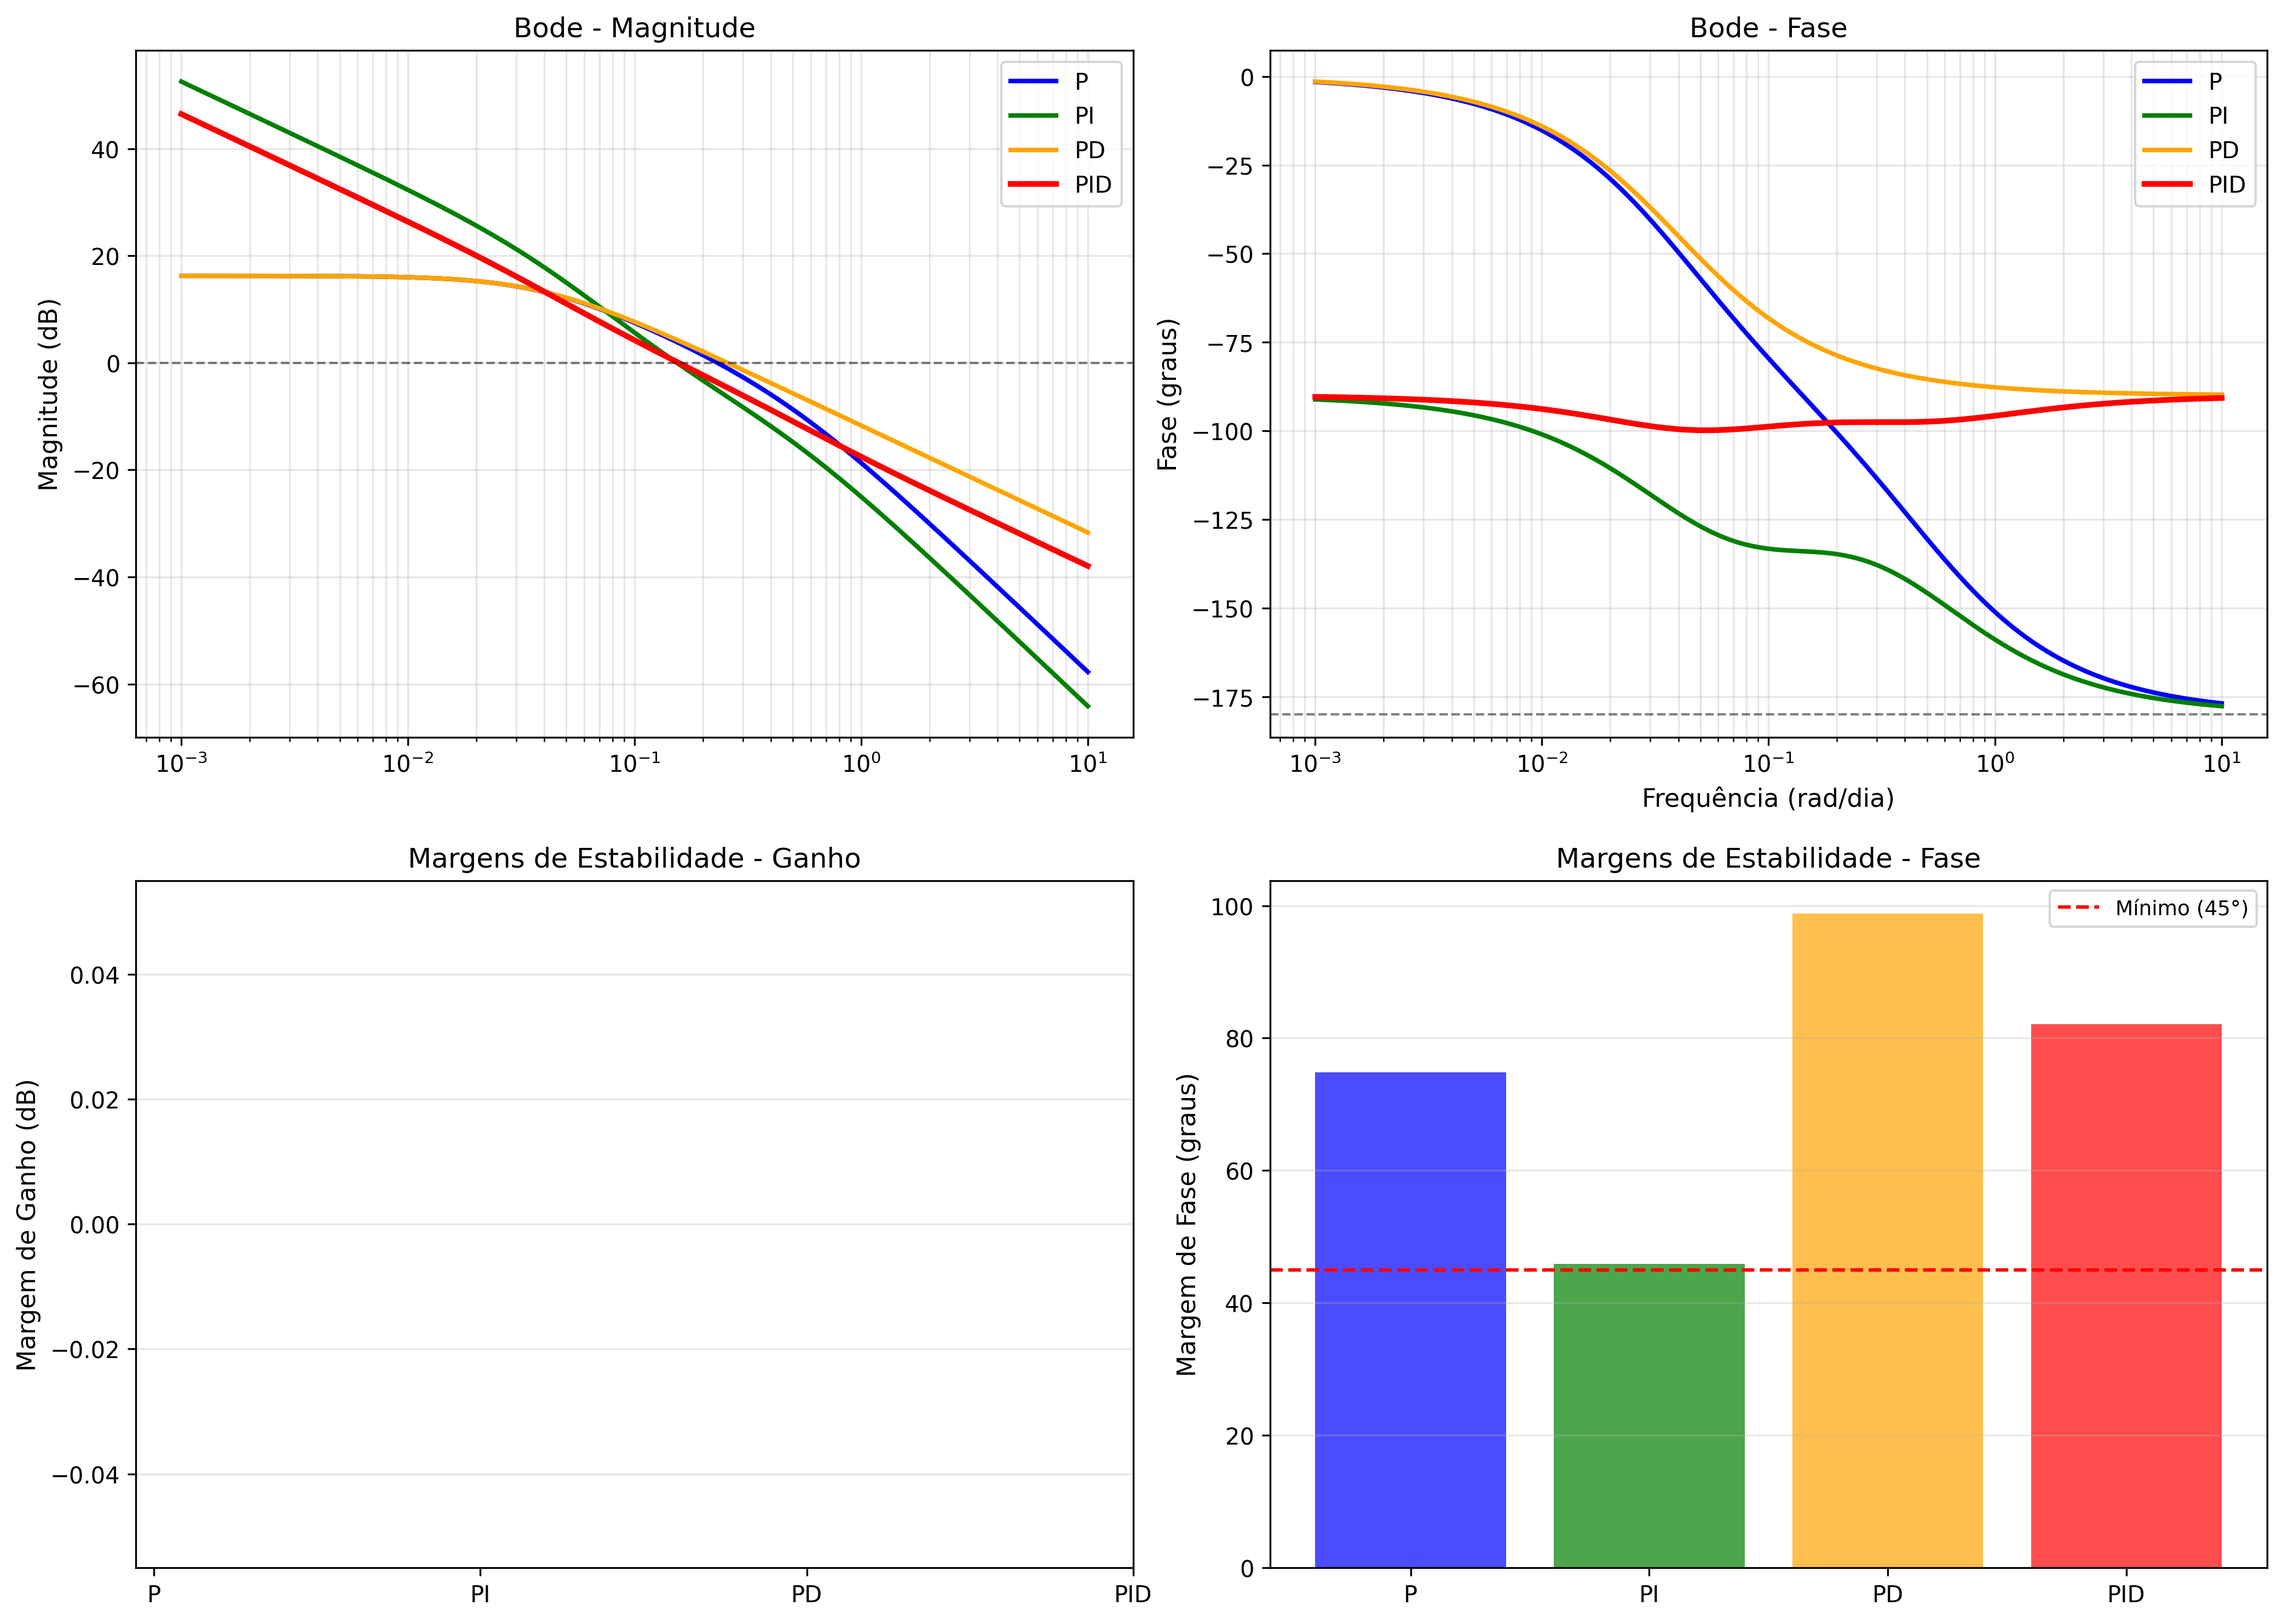
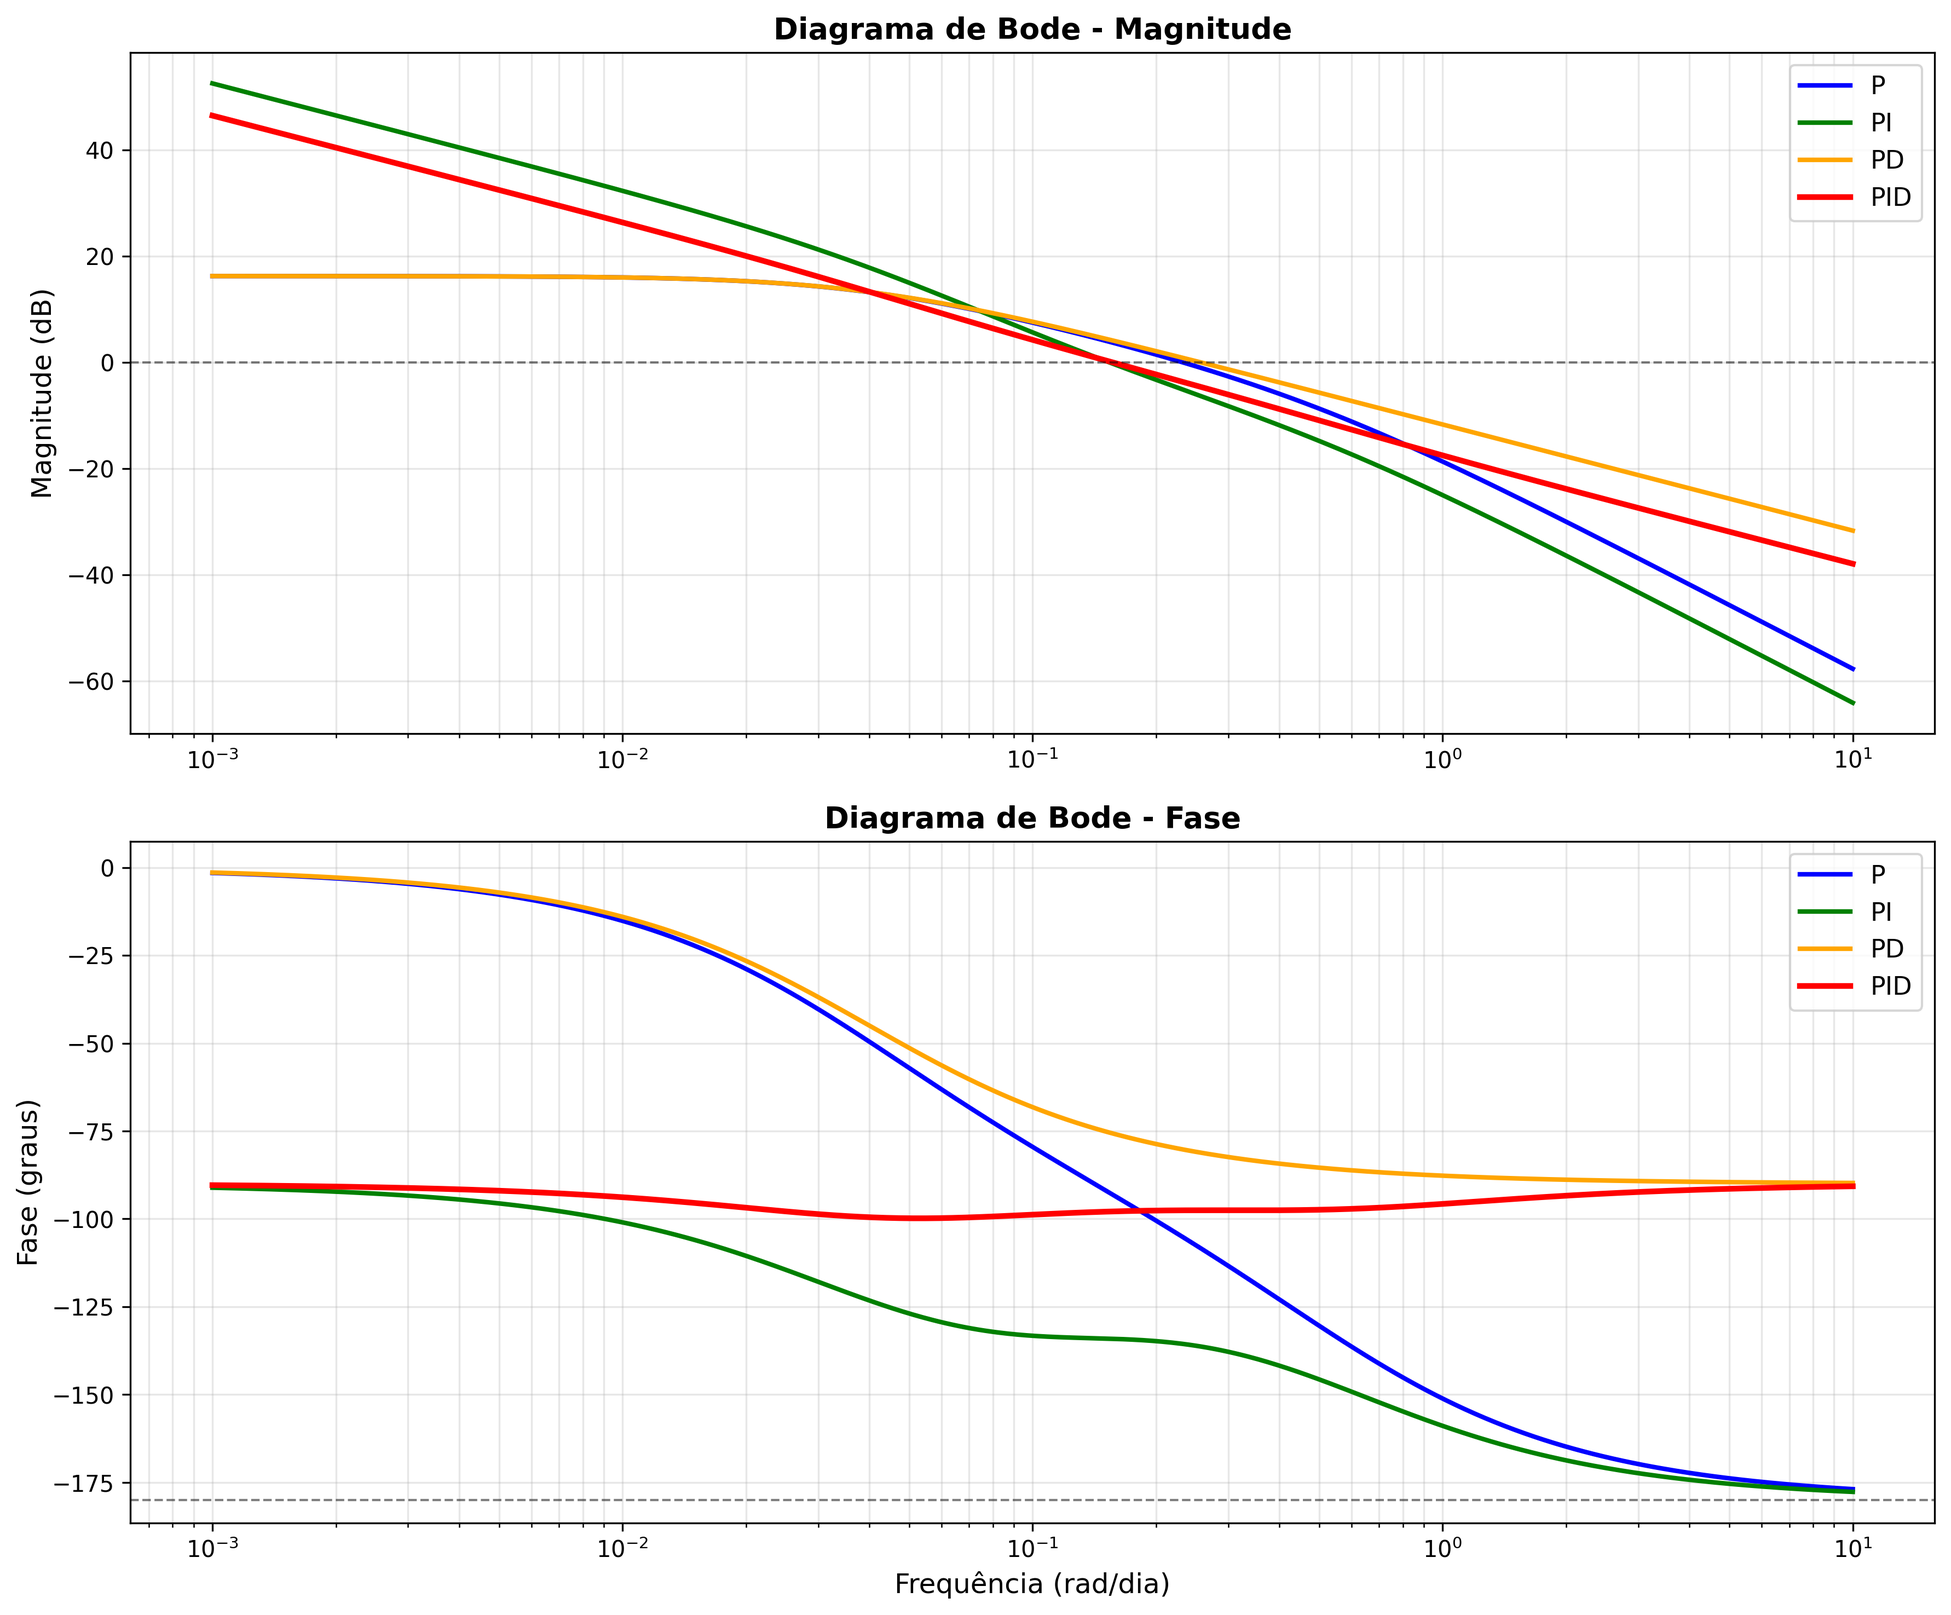
refacto question 5 new bode

diff --git a/questao5.py b/questao5.py
@@ -211,7 +211,7 @@ def questao5_controle_PID(Ks=1.0, Kp=1.0):
     print("\n" + "-"*80)
     print("5d) Impacto do Termo Integral - Diagrama de Bode")
     print("-"*80)
-    fig, axes = plt.subplots(2, 2, figsize=(14, 10))
+    fig, axes = plt.subplots(2, 1, figsize=(12, 10))
     w = np.logspace(-3, 1, 500)
     # Controladores
     C_P_ctrl = ctrl.TransferFunction([6.5], [1])
@@ -228,53 +228,30 @@ def questao5_controle_PID(Ks=1.0, Kp=1.0):
     mag_pi, _, _ = ctrl.bode(L_PI, w, plot=False)
     mag_pd, _, _ = ctrl.bode(L_PD, w, plot=False)
     mag_pid, _, _ = ctrl.bode(L_PID, w, plot=False)
-    axes[0, 0].semilogx(w, 20*np.log10(mag_p), 'b-', linewidth=2, label='P')
-    axes[0, 0].semilogx(w, 20*np.log10(mag_pi), 'g-', linewidth=2, label='PI')
-    axes[0, 0].semilogx(w, 20*np.log10(mag_pd), 'orange', linewidth=2, label='PD')
-    axes[0, 0].semilogx(w, 20*np.log10(mag_pid), 'r-', linewidth=2.5, label='PID')
-    axes[0, 0].axhline(0, color='k', linestyle='--', linewidth=1, alpha=0.5)
-    axes[0, 0].set_ylabel('Magnitude (dB)', fontsize=11)
-    axes[0, 0].set_title('Bode - Magnitude', fontsize=12)
-    axes[0, 0].legend(fontsize=10)
-    axes[0, 0].grid(True, which='both', alpha=0.3)
+    axes[0].semilogx(w, 20*np.log10(mag_p), 'b-', linewidth=2, label='P')
+    axes[0].semilogx(w, 20*np.log10(mag_pi), 'g-', linewidth=2, label='PI')
+    axes[0].semilogx(w, 20*np.log10(mag_pd), 'orange', linewidth=2, label='PD')
+    axes[0].semilogx(w, 20*np.log10(mag_pid), 'r-', linewidth=2.5, label='PID')
+    axes[0].axhline(0, color='k', linestyle='--', linewidth=1, alpha=0.5)
+    axes[0].set_ylabel('Magnitude (dB)', fontsize=12)
+    axes[0].set_title('Diagrama de Bode - Magnitude', fontsize=13, fontweight='bold')
+    axes[0].legend(fontsize=11, loc='best')
+    axes[0].grid(True, which='both', alpha=0.3)
     # Bode fase
     _, phase_p, _ = ctrl.bode(L_P, w, plot=False)
     _, phase_pi, _ = ctrl.bode(L_PI, w, plot=False)
     _, phase_pd, _ = ctrl.bode(L_PD, w, plot=False)
     _, phase_pid, _ = ctrl.bode(L_PID, w, plot=False)
-    axes[0, 1].semilogx(w, phase_p * 180/np.pi, 'b-', linewidth=2, label='P')
-    axes[0, 1].semilogx(w, phase_pi * 180/np.pi, 'g-', linewidth=2, label='PI')
-    axes[0, 1].semilogx(w, phase_pd * 180/np.pi, 'orange', linewidth=2, label='PD')
-    axes[0, 1].semilogx(w, phase_pid * 180/np.pi, 'r-', linewidth=2.5, label='PID')
-    axes[0, 1].axhline(-180, color='k', linestyle='--', linewidth=1, alpha=0.5)
-    axes[0, 1].set_ylabel('Fase (graus)', fontsize=11)
-    axes[0, 1].set_xlabel('Frequência (rad/dia)', fontsize=11)
-    axes[0, 1].set_title('Bode - Fase', fontsize=12)
-    axes[0, 1].legend(fontsize=10)
-    axes[0, 1].grid(True, which='both', alpha=0.3)
-    # Margens de estabilidade
-    controllers = ['P', 'PI', 'PD', 'PID']
-    loops = [L_P, L_PI, L_PD, L_PID]
-    gms, pms = [], []
-    for L in loops:
-        gm, pm, _, _ = ctrl.margin(L)
-        gms.append(20*np.log10(gm) if gm > 0 else 0)
-        pms.append(pm)
-    x_pos = np.arange(len(controllers))
-    axes[1, 0].bar(x_pos, gms, color=['blue', 'green', 'orange', 'red'], alpha=0.7)
-    axes[1, 0].set_xticks(x_pos)
-    axes[1, 0].set_xticklabels(controllers)
-    axes[1, 0].set_ylabel('Margem de Ganho (dB)', fontsize=11)
-    axes[1, 0].set_title('Margens de Estabilidade - Ganho', fontsize=12)
-    axes[1, 0].grid(True, alpha=0.3, axis='y')
-    axes[1, 1].bar(x_pos, pms, color=['blue', 'green', 'orange', 'red'], alpha=0.7)
-    axes[1, 1].axhline(45, color='r', linestyle='--', linewidth=1.5, label='Mínimo (45°)')
-    axes[1, 1].set_xticks(x_pos)
-    axes[1, 1].set_xticklabels(controllers)
-    axes[1, 1].set_ylabel('Margem de Fase (graus)', fontsize=11)
-    axes[1, 1].set_title('Margens de Estabilidade - Fase', fontsize=12)
-    axes[1, 1].legend(fontsize=9)
-    axes[1, 1].grid(True, alpha=0.3, axis='y')
+    axes[1].semilogx(w, phase_p * 180/np.pi, 'b-', linewidth=2, label='P')
+    axes[1].semilogx(w, phase_pi * 180/np.pi, 'g-', linewidth=2, label='PI')
+    axes[1].semilogx(w, phase_pd * 180/np.pi, 'orange', linewidth=2, label='PD')
+    axes[1].semilogx(w, phase_pid * 180/np.pi, 'r-', linewidth=2.5, label='PID')
+    axes[1].axhline(-180, color='k', linestyle='--', linewidth=1, alpha=0.5)
+    axes[1].set_ylabel('Fase (graus)', fontsize=12)
+    axes[1].set_xlabel('Frequência (rad/dia)', fontsize=12)
+    axes[1].set_title('Diagrama de Bode - Fase', fontsize=13, fontweight='bold')
+    axes[1].legend(fontsize=11, loc='best')
+    axes[1].grid(True, which='both', alpha=0.3)
     plt.tight_layout()
     plt.savefig('output/questao5d_bode_integral.png', dpi=300, bbox_inches='tight')
     plt.close()
